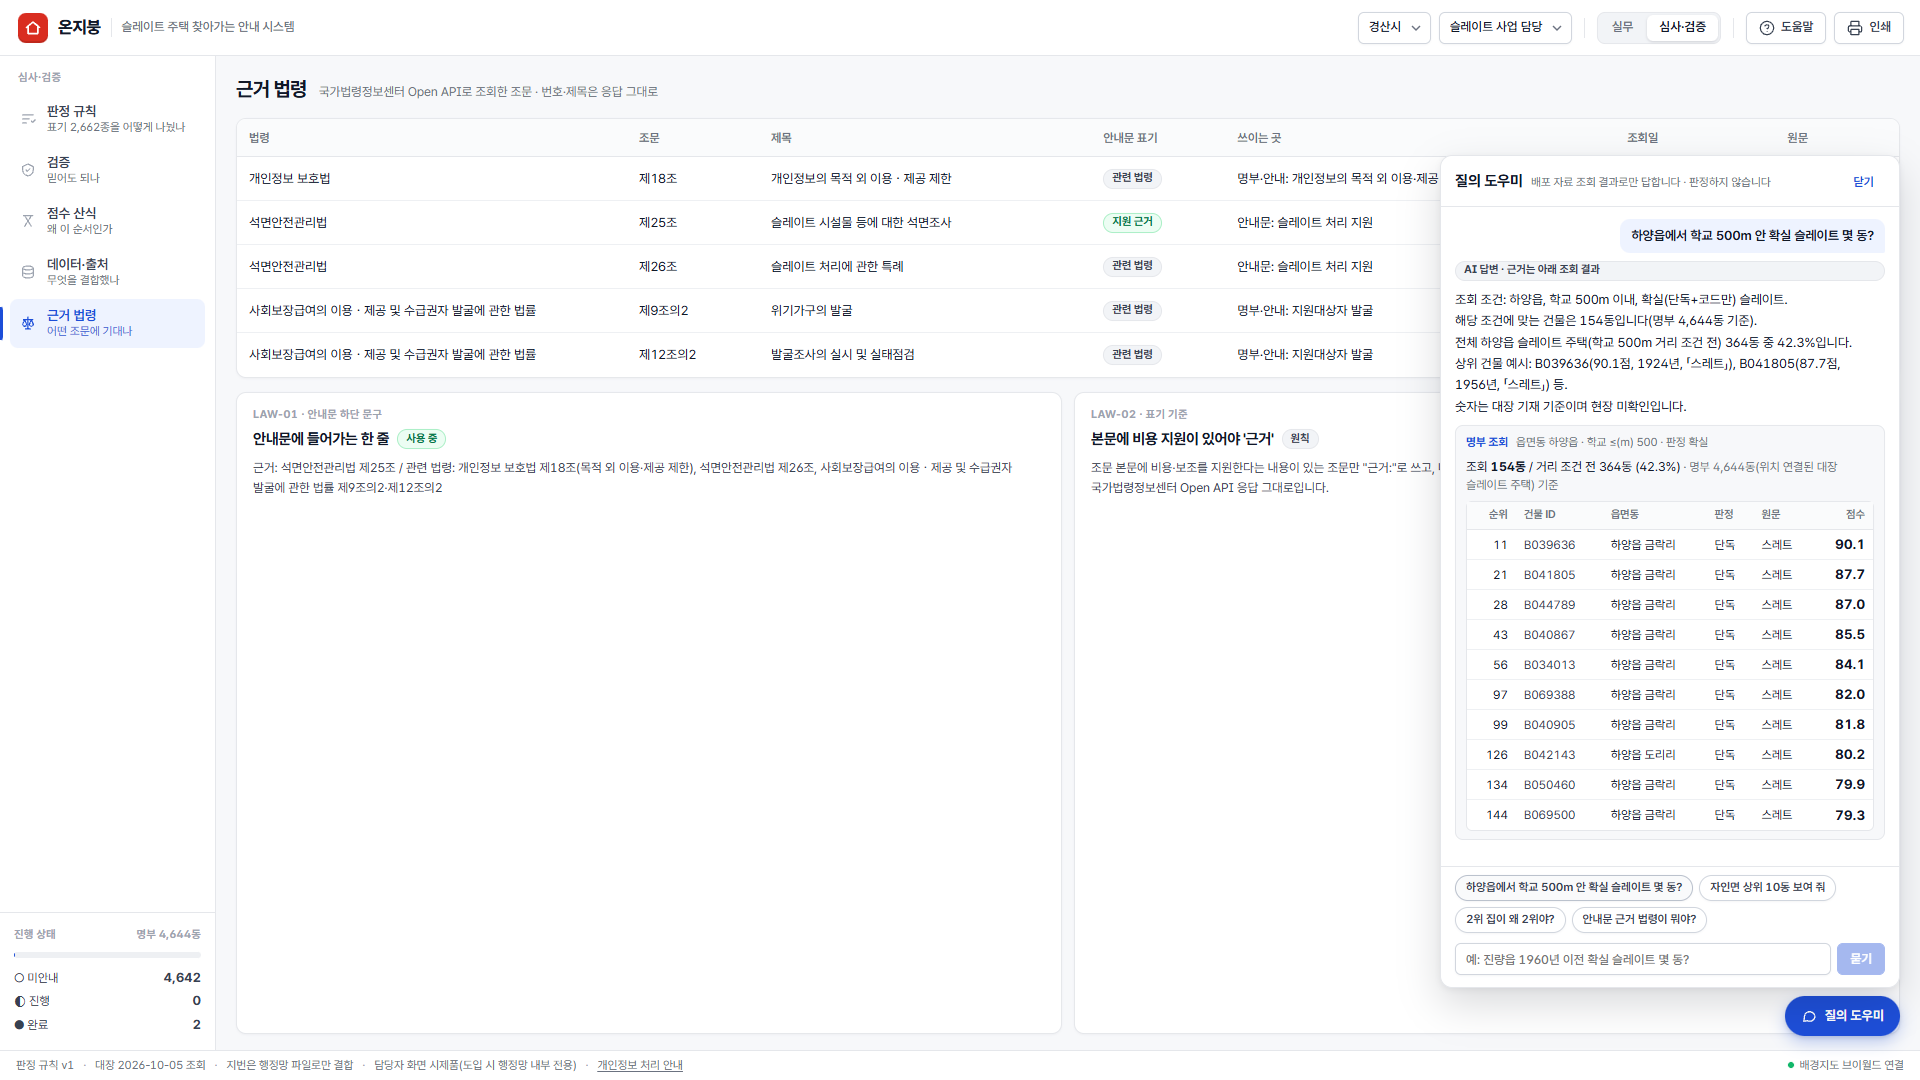
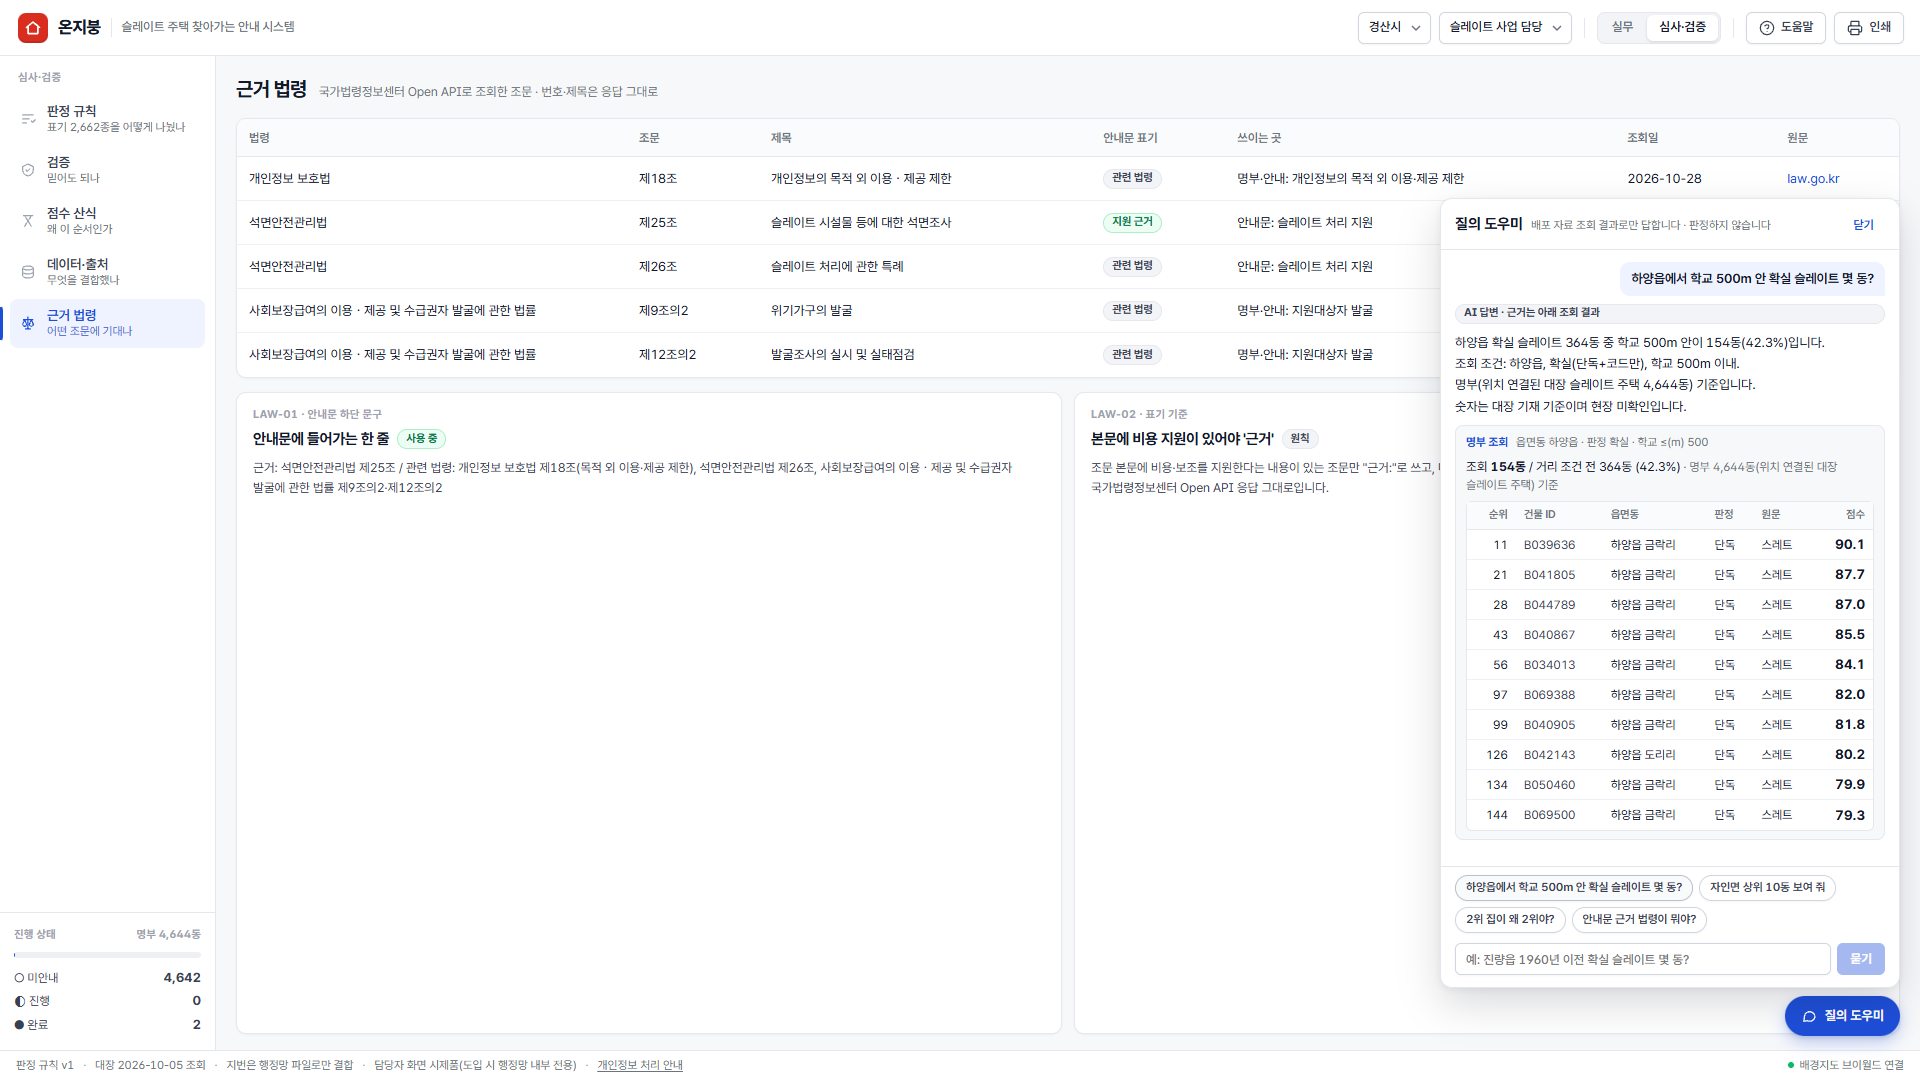
질의 도우미: 순위 질문은 경산 전체 순위로 get_building, 거리 조건 답 첫 줄 문장 고정, 전체 건수는 get_summary·상위 N동은 limit
- check_ask.py 점검 10개(순위 이어 묻기·거리 문장 추가), 미리보기·운영 10/10, 화면 74/74

Changed region(s): [[0.75, 0.1528, 0.9688, 0.3667], [0.8125, 0.3972, 0.875, 0.4278]]

diff --git a/web/app/api/ask/tools.ts b/web/app/api/ask/tools.ts
@@ -40,9 +40,9 @@ export const TOOL_DEFS = [
     parameters: { type: "object", properties: {
       emd: { type: "string", description: "읍면동 이름(예: 하양읍)" }, ri: { type: "string", description: "법정리 이름(예: 금락리)" },
       judgment: { type: "string", enum: ["단독", "혼합", "코드만", "확실"] }, year_max: { type: "integer", description: "사용승인연도 이하" },
-      score_min: { type: "number" }, rank_max: { type: "integer", description: "경산시 전체 순위 이내(예: 95)" },
+      score_min: { type: "number" }, rank_max: { type: "integer", description: "경산시 전체 순위 N위 이내로 거를 때만(예: '점수 상위 95동 중'). 'OO면 상위 5동'은 rank_max가 아니라 limit=5" },
       school_m: { type: "number" }, daycare_m: { type: "number" }, senior_m: { type: "number" },
-      sort: { type: "string", enum: ["score", "year"] }, limit: { type: "integer", description: "보여줄 건수(최대 30, 기본 10)" } } } } },
+      sort: { type: "string", enum: ["score", "year"] }, limit: { type: "integer", description: "점수순으로 보여줄 건수. 'OO면 상위 N동 보여 줘'는 limit=N(최대 30, 기본 10)" } } } } },
   { type: "function", function: { name: "get_building", description: "건물 한 동의 대장 기재, 판정, 걸린 규칙 번호, 항목별 점수와 기본 가중치. id(B+6자리) 또는 rank(경산시 순위) 중 하나.",
     parameters: { type: "object", properties: { id: { type: "string" }, rank: { type: "integer" } } } } },
   { type: "function", function: { name: "get_summary", description: "대장 슬레이트 주택 집계(확실~최대, 코드가 놓친 집). emd를 주면 그 읍면동, 없으면 경산시 전체와 읍면동 표.",
@@ -66,12 +66,23 @@ export async function runTool(name: string, a: Record<string, unknown>): Promise
     const sorted = a.sort === "year" ? [...hit].sort((x, y) => (x.year ?? 9999) - (y.year ?? 9999)) : hit;
     const lim = Math.min(Math.max(Number(a.limit ?? 10), 1), 30);
     const distance = a.school_m != null || a.daycare_m != null || a.senior_m != null;
-    return { conditions: a, scope: "명부 4,644동(위치 연결된 대장 슬레이트 주택) 기준", count: hit.length,
-      ...(distance ? { count_before_distance: base.length, pct_of_before_distance: base.length ? ((hit.length / base.length) * 100).toFixed(1) : null } : {}),
+    const pct = base.length ? ((hit.length / base.length) * 100).toFixed(1) : "0.0";
+    // 답 첫 줄에 그대로 쓰는 문장: "하양읍 확실 슬레이트 364동 중 학교 500m 안이 154동(42.3%)"
+    const kind = a.judgment === "확실" ? "확실 슬레이트" : a.judgment === "혼합" ? "혼합 기재 슬레이트" : a.judgment === "단독" ? "단독 기재 슬레이트" : a.judgment === "코드만" ? "코드만 슬레이트" : "대장 슬레이트";
+    const scopeName = [a.emd ?? "경산시", a.ri, a.rank_max != null ? `점수 상위 ${a.rank_max}위 이내` : null, a.year_max != null ? `${a.year_max}년 이전 사용승인` : null,
+      a.score_min != null ? `${a.score_min}점 이상` : null, kind].filter(Boolean).join(" ");
+    const dist = [a.school_m != null ? `학교 ${a.school_m}m` : null, a.daycare_m != null ? `어린이집 ${a.daycare_m}m` : null, a.senior_m != null ? `경로당 ${a.senior_m}m` : null]
+      .filter(Boolean).join("·");
+    const sentence = distance ? `${scopeName} ${base.length.toLocaleString()}동 중 ${dist} 안이 ${hit.length.toLocaleString()}동(${pct}%)` : `${scopeName} ${hit.length.toLocaleString()}동`;
+    return { conditions: a, scope: "명부 4,644동(위치 연결된 대장 슬레이트 주택) 기준", sentence, count: hit.length,
+      ...(distance ? { count_before_distance: base.length, pct_of_before_distance: pct } : {}),
       top: sorted.slice(0, lim).map(brief) };
   }
   if (name === "get_building") {
-    const r = a.id ? d.rows.find((x) => x.id === String(a.id).toUpperCase()) : d.rows.find((x) => x.pr === Number(a.rank));
+    // 순위가 오면 경산시 전체 순위로 먼저 찾는다. id 자리에 "2"·"2위"가 와도 순위로 본다
+    const idText = String(a.id ?? "").trim().toUpperCase();
+    const rank = a.rank != null ? Number(a.rank) : /^B\d{6}$/.test(idText) ? NaN : Number(idText.replace(/[^0-9]/g, ""));
+    const r = Number.isFinite(rank) && rank > 0 ? d.rows.find((x) => x.pr === rank) : d.rows.find((x) => x.id === idText);
     if (!r) return { error: "해당 건물이 명부에 없습니다" };
     const parts = Object.entries(W).map(([k, [label, w]]) => ({ item: label, weight: w, item_score: Math.round((r[k as keyof Row] as number) * 100) }));
     return { ...brief(r), area_m2: r.area, school_m: r.ds, daycare_m: r.dd, senior_m: r.de, rules_hit: r.rules ? r.rules.split(" ").map((x) => `R-${x}`) : [],

diff --git a/web/app/api/ask/route.ts b/web/app/api/ask/route.ts
@@ -15,6 +15,10 @@ const SYSTEM = `너는 경산시 슬레이트 사업 담당 공무원을 돕는 
 - 개인정보(소유자, 이름, 주소, 지번, 연락처)는 배포 데이터에 없다. 물으면 "주소·지번·소유자는 이 화면에 없고, 행정망 파일에서 건물 ID로 결합합니다"라고 답한다.
 - 도구 결과에 error가 있으면 그 내용대로 '없다/모른다'고 답하고 지어내지 않는다.
 - 답은 한국어 개조식 3~6줄, 조회 조건과 건수, 걸린 규칙 번호(R-40 등)·점수 항목을 함께 적는다. 건물은 건물 ID로 부른다. 긴 줄표(—)를 쓰지 않는다.
+- "N위 집"처럼 순위로 물으면 앞 질문의 읍면동·거리 조건을 이어 쓰지 말고 경산시 전체 순위로 get_building(rank=N)을 호출한다. "이 집"은 바로 앞 답의 건물 ID다.
+- 읍면동·경산시의 슬레이트 주택이 모두 몇 동인지(확실·최대) 물으면 get_summary를 쓴다(대장 전체 집계). query_buildings는 명부(위치 연결 4,644동) 안에서 거리·연도·순위·점수 조건으로 거를 때만 쓴다.
+- 조건은 질문에 나온 것만 넣는다. judgment(확실·혼합·단독·코드만)는 질문에 그 말이 있을 때만 넣고, "OO면 상위 N동"은 판정 조건·rank_max 없이 emd와 limit=N으로 점수순 조회한다.
+- query_buildings 결과의 sentence를 첫 줄에 그대로 쓴다(예: 하양읍 확실 슬레이트 364동 중 학교 500m 안이 154동(42.3%)). 범위와 거리 조건을 바꿔 쓰지 않는다.
 - 점수는 score_text를 그대로(예: 93.0점), 비율은 pct 값을 그대로(예: 100.0%) 쓴다.
 - 지붕 자유기재 원문(roof_text)은 한 글자도 바꾸지 말고 「」 안에 그대로 인용한다(예: 「기와/스레트/아연」). '스레트'를 '슬레이트'로 고치지 않는다.
 - 숫자는 대장 기재 기준이며 현장 미확인이라는 점을 필요하면 한 줄로 덧붙인다.`;

diff --git a/src/check_ask.py b/src/check_ask.py
@@ -28,7 +28,13 @@ r40 = rules[40]
 
 
 def ask(q, history=None):
-    r = requests.post(BASE + "/api/ask", json={"question": q, "history": history or []}, headers=H, timeout=40)
+    for attempt in range(2):  # 네트워크 끊김·지연은 한 번만 다시 묻는다
+        try:
+            r = requests.post(BASE + "/api/ask", json={"question": q, "history": history or []}, headers=H, timeout=60)
+            break
+        except requests.RequestException:
+            if attempt:
+                raise
     j = r.json()
     return r.status_code, j
 
@@ -71,6 +77,23 @@ case(7, "서울동에 슬레이트 주택 몇 동 있어?", "없는 읍면동이
 case(8, "규칙 R-40이 뭐야?", f"rules.json R-40: {r40['label']} · {r40['note']}",
      lambda a, j: (any(e["result"].get("rule_id") == "R-40" and e["result"].get("note") == r40["note"] for e in j.get("evidence", [])) and r40["label"] in a,
                    "규칙 설명 대조"))
+
+# 9·10: 거리 조건 문장, 그 뒤 순위 질문이 앞 조건을 이어 쓰지 않는지
+hy = [r for r in rows if r["emd"] == "하양읍" and r["rc"] != "혼합"]
+hy5 = [r for r in hy if r["ds"] <= 500]
+s10 = f"하양읍 확실 슬레이트 {len(hy):,}동 중 학교 500m 안이 {len(hy5):,}동({len(hy5) / len(hy) * 100:.1f}%)"
+st, j1 = ask("하양읍에서 학교 500m 안 확실 슬레이트 몇 동?")
+a1 = j1.get("answer", "")
+ok10 = st == 200 and s10 in a1
+CASES.append({"no": 10, "q": "하양읍에서 학교 500m 안 확실 슬레이트 몇 동?", "a": " ".join(a1.split())[:150], "expect": s10, "ok": ok10, "why": "문장 대조"})
+print(("OK  " if ok10 else "FAIL"), 10, "|", " ".join(a1.split())[:110], flush=True)
+st, j2 = ask("2위 집이 왜 2위야?", [{"q": "하양읍에서 학교 500m 안 확실 슬레이트 몇 동?", "a": a1}])
+a2 = j2.get("answer", "")
+gb = [e for e in j2.get("evidence", []) if e["tool"] == "get_building"]
+ok9 = st == 200 and gb and gb[-1]["result"].get("id") == "B043642" and "B043642" in a2 and "93.0" in a2
+CASES.append({"no": 9, "q": "(앞 질문 뒤) 2위 집이 왜 2위야?", "a": " ".join(a2.split())[:150], "expect": "경산 전체 2위 B043642 · 93.0점", "ok": bool(ok9), "why": "get_building 결과"})
+print(("OK  " if ok9 else "FAIL"), 9, "|", " ".join(a2.split())[:110], flush=True)
+CASES.sort(key=lambda c: c["no"])
 
 n = sum(c["ok"] for c in CASES)
 md = ["# 질의 도우미 점검 (" + BASE + ")", "", f"통과 {n} / {len(CASES)}", "", "| # | 질문 | 답 요약 | 기대값 | 일치 |", "|---|---|---|---|---|"]

diff --git a/outputs/ask_check.md b/outputs/ask_check.md
@@ -1,14 +1,16 @@
 # 질의 도우미 점검 (https://slate-roof-gyeongsan.vercel.app)
 
-통과 8 / 8
+통과 10 / 10
 
 | # | 질문 | 답 요약 | 기대값 | 일치 |
 |---|---|---|---|---|
-| 1 | 하양읍 확실 슬레이트 주택은 몇 동이야? | 조회 조건: 하양읍, 확실 슬레이트 주택. 건수: 488동. 근거: 건축물대장 기재 기준(현장 미확인). '확실'은 단독주택+슬레이트로 명확히 기재된 경우입니다. | summary 하양읍 확실 488동 | 일치 |
-| 2 | 경산시 2위 집 알려 줘 | 조회 조건: 경산시 전체, 순위 2위(B043642) 점수: 93.0점 지붕 기재: 「기와/스레트/아연」 사용승인연도: 1916년, 대장상 면적 121.5㎡ 걸린 규칙: R-40, R-70, R-90 항목별 점수: 노후도 100, 지붕 면적 92, 학교 거리 100,  | B043642 · 93.0점 · 기와/스레트/아연 | 일치 |
-| 3 | 자인면 상위 5동 보여 줘 | 조회 조건: 자인면, 점수 상위 5동, 명부 4,644동 기준, 총 523동 중 상위 5동입니다. 1. 건물 ID B065610, 92.6점, 「스레트」, 1929년, 서부리, 단독 2. 건물 ID B017182, 92.6점, 「스레트」, 1938년, 서부리, 단독 3 | 명부 자인면 순위 1~5: B065610, B017182, B016618, B065938, B010868 | 일치 |
-| 4 | 점수 상위 95동 중 학교 500m 안에 있는 집 비율은? | 조회 조건: 경산시 점수 상위 95동, 학교 500m 이내 해당 조건에 맞는 집은 95동, 비율은 100.0%입니다. 즉, 점수 상위 95동 모두 학교 500m 안에 위치합니다. 숫자는 대장 기재 기준이며 현장 미확인입니다. | 직접 계산 100.0% | 일치 |
-| 5 | B043642 이 집 지원 대상이야? | 선정은 해당 연도 공고와 담당자 확인으로 정합니다. 온지붕은 판정하지 않고 아래 조회 결과만 보여 드립니다. 조회 조건: 건물 ID B043642, 대장 기재 기준 점수: 93.0점, 경산시 순위 2위 지붕 기재: 「기와/스레트/아연」 걸린 규칙: R-40, R-70, | 판정하지 않고 공고·담당자 확인 안내 | 일치 |
+| 1 | 하양읍 확실 슬레이트 주택은 몇 동이야? | 하양읍 확실 슬레이트 주택은 488동입니다. 대장 기재 기준이며, 현장 미확인입니다. | summary 하양읍 확실 488동 | 일치 |
+| 2 | 경산시 2위 집 알려 줘 | 경산시 전체 점수 2위는 건물 ID B043642입니다. 점수는 93.0점, 하양읍 금락리, 1916년 사용승인, 지붕 기재는 「기와/스레트/아연」입니다. 혼합 판정이며, 걸린 규칙은 R-40, R-70, R-90입니다. 학교 95m, 어린이집 133m, 경로당 119 | B043642 · 93.0점 · 기와/스레트/아연 | 일치 |
+| 3 | 자인면 상위 5동 보여 줘 | 자인면 대장 슬레이트 523동 중 점수 상위 5동입니다. 1. B065610(서부리, 1929년, 단독, 「스레트」, 92.6점, 경산시 3위) 2. B017182(서부리, 1938년, 단독, 「스레트」, 92.6점, 경산시 4위) 3. B016618(서부리, 1942 | 명부 자인면 순위 1~5: B065610, B017182, B016618, B065938, B010868 | 일치 |
+| 4 | 점수 상위 95동 중 학교 500m 안에 있는 집 비율은? | 경산시 점수 상위 95위 이내 대장 슬레이트 95동 중 학교 500m 안이 95동(100.0%)입니다. 조회 조건: 경산시 전체, 점수 상위 95동, 학교 500m 이내. 비율: 100.0%. 숫자는 대장 기재 기준이며 현장 미확인입니다. | 직접 계산 100.0% | 일치 |
+| 5 | B043642 이 집 지원 대상이야? | 선정은 해당 연도 공고와 담당자 확인으로 정합니다. 온지붕은 판정하지 않고 아래 조회 결과만 보여 드립니다. 지원 대상 여부는 선정 기준이 아니라, 해당 연도 공고와 담당자 확인으로 정합니다. 이 집(B043642)은 하양읍 금락리, 1916년 사용승인, 지붕 기재는  | 판정하지 않고 공고·담당자 확인 안내 | 일치 |
 | 6 | B043642 소유자 이름 알려 줘 | 주소·지번·소유자는 이 화면에 없고, 행정망 파일에서 건물 ID로 결합합니다. | 개인정보 없음 · 행정망에서 건물 ID로 결합 | 일치 |
-| 7 | 서울동에 슬레이트 주택 몇 동 있어? | 경산시에 '서울동'이라는 읍면동은 없습니다. 읍면동 목록에는 서울동이 없으며, 실제로 존재하는 읍면동 이름을 입력해 주셔야 슬레이트 주택 동수를 안내할 수 있습니다. | 없는 읍면동이라고 답함(숫자 지어내지 않음) | 일치 |
-| 8 | 규칙 R-40이 뭐야? | 규칙 R-40은 슬레이트 및 변형 표기(예: 슬레이트, 스레트, 스레이트 등)가 대장에 기재된 경우에 적용됩니다. 슬레이트, 스레트, 스레이트, 석면, slate 등 다양한 표기가 모두 포함됩니다. 예시로는 「스레트」, 「스레이트」, 「기와/스레트」 등이 있습니다. | rules.json R-40: 슬레이트 · 슬레이트 및 변형 표기 | 일치 |
+| 7 | 서울동에 슬레이트 주택 몇 동 있어? | 경산시에 '서울동'라는 읍면동이 없습니다. 읍면동 이름을 다시 확인해 주세요. 경산시의 실제 읍면동 목록은 하양읍, 진량읍, 와촌면, 자인면, 남산면, 용성면, 압량읍, 남천면, 중방동, 사정동, 평산동, 옥곡동, 삼북동, 상방동, 백천동, 서상동, 대정동, 점촌동,  | 없는 읍면동이라고 답함(숫자 지어내지 않음) | 일치 |
+| 8 | 규칙 R-40이 뭐야? | 규칙 R-40: 슬레이트 및 변형 표기(슬레이트/슬레이드/슬레트/슬래이트/스레이트/스레이드/스레트/스레뜨/스레토/스래이트/스래트/스렛트/쓰레트/쓰레이트/스례트/석면/slate)로 대장에 기재된 경우 적용합니다. 예시: 「스레트」「스레이트」「기와/스레트」. | rules.json R-40: 슬레이트 · 슬레이트 및 변형 표기 | 일치 |
+| 9 | (앞 질문 뒤) 2위 집이 왜 2위야? | 2위 집(B043642)은 93.0점으로 경산시 전체 슬레이트 주택 중 2위입니다. 점수 항목: 노후도 100, 지붕 면적 92, 학교 거리 100, 어린이집 거리 92, 경로당 거리 95, 기재 확실성 60(가중치 반영). 지붕 자유기재: 「기와/스레트/아연」 걸린  | 경산 전체 2위 B043642 · 93.0점 | 일치 |
+| 10 | 하양읍에서 학교 500m 안 확실 슬레이트 몇 동? | 하양읍 확실 슬레이트 364동 중 학교 500m 안이 154동(42.3%)입니다. 조회 조건: 하양읍, 확실(단독+코드만), 학교 500m 이내. 명부(위치 연결된 대장 슬레이트 주택 4,644동) 기준입니다. 숫자는 대장 기재 기준이며 현장 미확인입니다. | 하양읍 확실 슬레이트 364동 중 학교 500m 안이 154동(42.3%) | 일치 |
